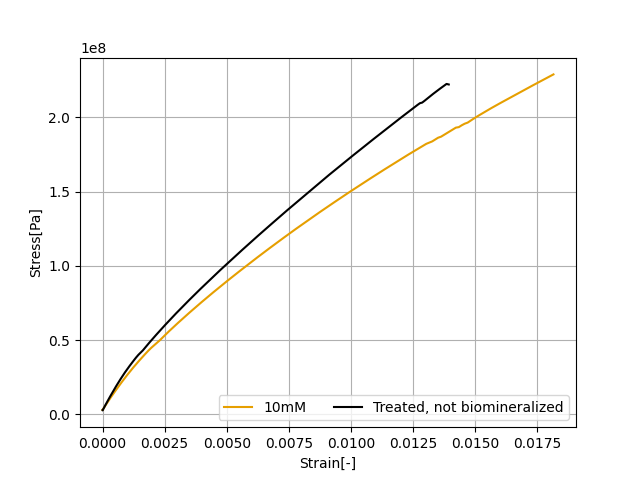
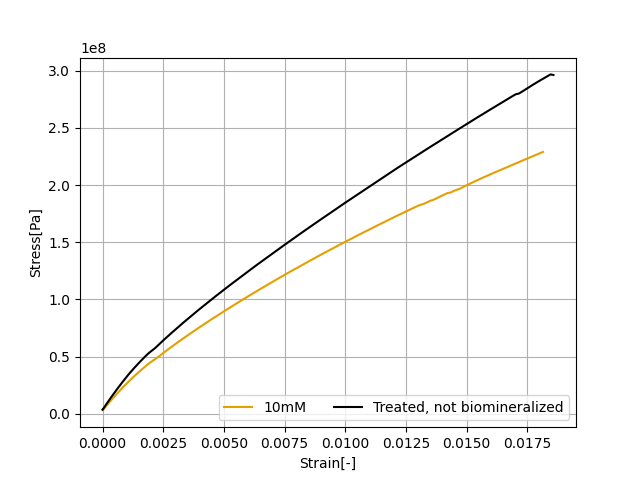
small bugfix

diff --git a/mainTension.py b/mainTension.py
@@ -187,13 +187,13 @@ if averages_true:
             avg_stress10=avg_stress10[:i]
             break
     avg_stress10=np.array(avg_stress10)/4
-    avg_strainNBM=np.array(avg_strainNBM)/4
+    avg_strainNBM=np.array(avg_strainNBM)/3
     for i in range(len(avg_strainNBM)):
         if avg_strainNBM[i+1]<avg_strainNBM[i]:
             avg_strainNBM=avg_strainNBM[:i]
             avg_stressNBM=avg_stressNBM[:i]
             break
-    avg_stressNBM=np.array(avg_stressNBM)/4
+    avg_stressNBM=np.array(avg_stressNBM)/3
 
     #comment or uncomment the following 5 lines depending on what you would like the graph to look like
     plt.plot(avg_strain10, avg_stress10, label = label_lst[0], color = color_lst[0])
